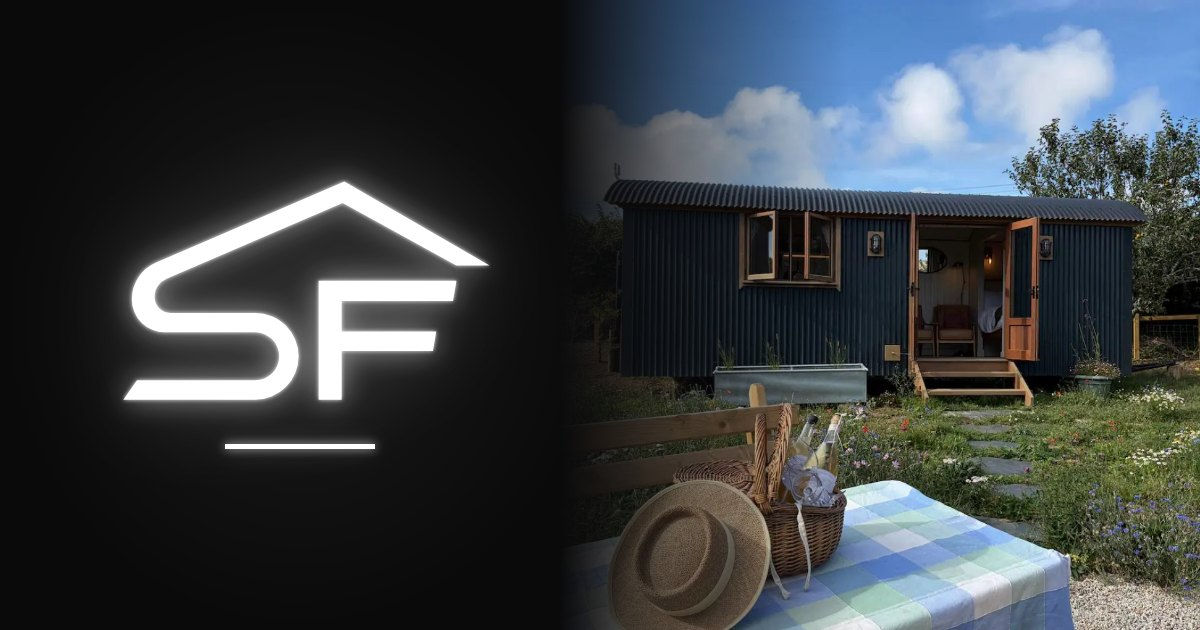
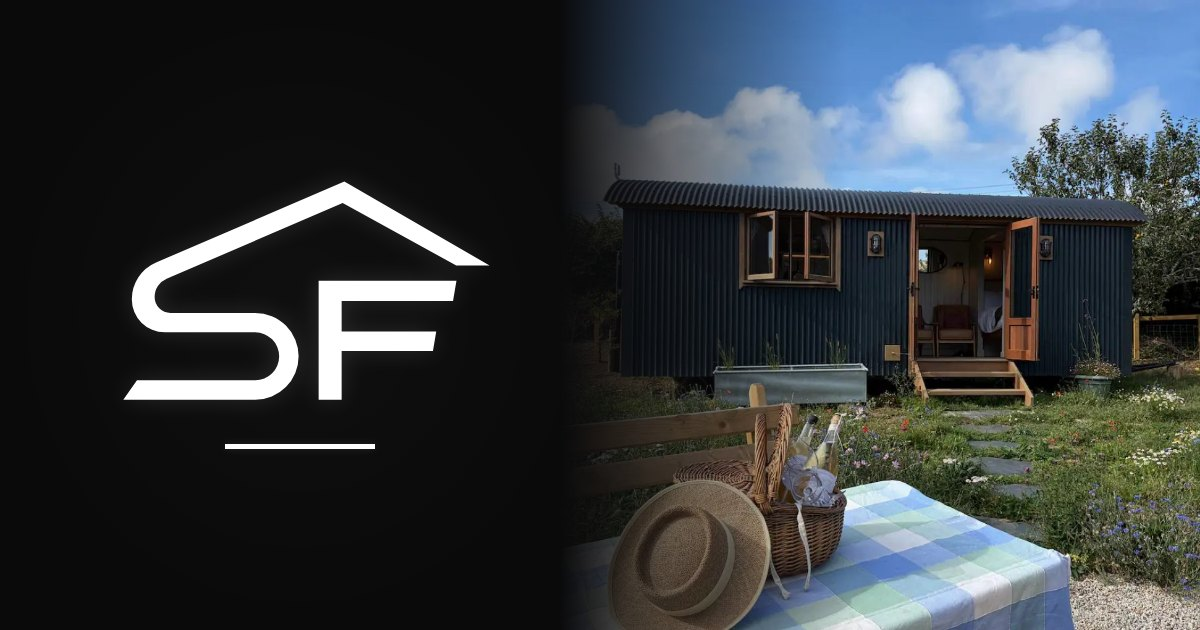
Tone down glow, 7 years, hut write-up, quote or hourly
- Glow reduced to a faint hint across the site, icon and share image
- 7 years of experience
- Shepherd's hut: designed, built and situated from scratch; shower
  room photo moved to during
- How it works: quote or hourly, with a transparent invoice breakdown

Claude-Session: https://claude.ai/code/session_01G5jVwbTrBoWR311kJorTU6

Changed region(s): [[0.0925, 0.2413, 0.4317, 0.7238]]

diff --git a/index.html b/index.html
@@ -4,7 +4,7 @@
 <meta charset="utf-8">
 <meta name="viewport" content="width=device-width, initial-scale=1">
 <title>SF Building &amp; Carpentry · Renovations &amp; extensions · Truro &amp; the Roseland</title>
-<meta name="description" content="SF Building &amp; Carpentry. Stuart Freeth, general builder with 6 years of experience in renovations and extensions. Based in Truro with a yard on the Roseland, Cornwall.">
+<meta name="description" content="SF Building &amp; Carpentry. Stuart Freeth, general builder with 7 years of experience in renovations and extensions. Based in Truro with a yard on the Roseland, Cornwall.">
 <meta name="theme-color" content="#0A0A0B">
 <link rel="icon" href="logo.svg" type="image/svg+xml">
 <link rel="apple-touch-icon" href="apple-touch-icon.png">
@@ -31,7 +31,7 @@
     --text: #F3F3F1;
     --muted: #A6A9B0;
     --dim: #868991;
-    --glow-text: 0 0 10px rgba(255, 255, 255, .55), 0 0 28px rgba(255, 255, 255, .22);
+    --glow-text: 0 0 8px rgba(255, 255, 255, .12);
     color-scheme: dark;
   }
   * { box-sizing: border-box; }
@@ -48,12 +48,12 @@
 
   /* Logo */
   .mark { display: block; height: auto; color: #fff; overflow: visible; }
-  .glow { filter: drop-shadow(0 0 2px rgba(255, 255, 255, .9)) drop-shadow(0 0 14px rgba(255, 255, 255, .5)) drop-shadow(0 0 44px rgba(255, 255, 255, .25)); }
-  .glow-sm { filter: drop-shadow(0 0 1.5px rgba(255, 255, 255, .85)) drop-shadow(0 0 8px rgba(255, 255, 255, .4)); }
+  .glow { filter: drop-shadow(0 0 12px rgba(255, 255, 255, .12)); }
+  .glow-sm { filter: drop-shadow(0 0 5px rgba(255, 255, 255, .1)); }
   .lockup { display: inline-flex; flex-direction: column; align-items: center; }
   .lockup .mark { width: 230px; }
   .lockup-word { margin-top: 22px; padding-left: .42em; color: #fff; font-size: 15px; font-weight: 600; letter-spacing: .42em; text-transform: uppercase; white-space: nowrap; text-shadow: var(--glow-text); }
-  .lockup-rule { width: 38%; height: 3px; margin-top: 16px; background: #fff; box-shadow: 0 0 8px rgba(255, 255, 255, .7), 0 0 22px rgba(255, 255, 255, .3); }
+  .lockup-rule { width: 38%; height: 3px; margin-top: 16px; background: #fff; box-shadow: 0 0 8px rgba(255, 255, 255, .12); }
   .ico { width: 20px; height: 20px; flex: none; }
 
   /* Header */
@@ -66,21 +66,21 @@
   .brand-text span { display: block; font-size: 10px; font-weight: 500; letter-spacing: .32em; color: var(--muted); }
   .nav { display: flex; align-items: center; gap: 30px; }
   .nav .link { font-size: 12px; font-weight: 600; letter-spacing: .22em; text-transform: uppercase; text-decoration: none; color: var(--muted); transition: color .2s, text-shadow .2s; }
-  .nav .link:hover { color: #fff; text-shadow: 0 0 10px rgba(255, 255, 255, .6); }
+  .nav .link:hover { color: #fff; }
 
   /* Buttons */
   .btn { display: inline-flex; align-items: center; justify-content: center; gap: 10px; min-height: 50px; padding: 0 26px; border: 1px solid transparent; border-radius: 2px; font: inherit; font-size: 12px; font-weight: 600; letter-spacing: .2em; text-transform: uppercase; text-decoration: none; cursor: pointer; transition: box-shadow .25s, border-color .25s, background .25s, color .25s; }
   .btn .ico { width: 18px; height: 18px; }
   .btn-solid { background: #fff; color: #0A0A0B; }
-  .btn-solid:hover { box-shadow: 0 0 24px rgba(255, 255, 255, .45); }
+  .btn-solid:hover { background: #E4E4E1; }
   .btn-line { border-color: rgba(255, 255, 255, .5); color: #fff; }
-  .btn-line:hover { border-color: #fff; box-shadow: 0 0 20px rgba(255, 255, 255, .22), inset 0 0 14px rgba(255, 255, 255, .07); }
+  .btn-line:hover { border-color: #fff; background: rgba(255, 255, 255, .06); }
   .btn-sm { min-height: 44px; padding: 0 18px; }
 
   /* Hero */
   .hero { display: grid; grid-template-columns: minmax(0, 1fr) minmax(0, 1fr); min-height: min(88vh, 800px); border-bottom: 1px solid var(--line); }
   .hero-content { position: relative; z-index: 1; display: flex; flex-direction: column; align-items: center; justify-content: center; padding: 72px 40px 64px; text-align: center; }
-  .hero-content::before { content: ""; position: absolute; left: 50%; top: 32%; z-index: -1; width: 560px; height: 560px; max-width: 100%; transform: translate(-50%, -50%); background: radial-gradient(closest-side, rgba(255, 255, 255, .07), rgba(255, 255, 255, 0)); pointer-events: none; }
+  .hero-content::before { content: ""; position: absolute; left: 50%; top: 32%; z-index: -1; width: 560px; height: 560px; max-width: 100%; transform: translate(-50%, -50%); background: radial-gradient(closest-side, rgba(255, 255, 255, .025), rgba(255, 255, 255, 0)); pointer-events: none; }
   .hero .lockup { margin-bottom: 44px; }
   .hero h1 { max-width: 17ch; margin: 0 0 18px; font-size: clamp(28px, 3.1vw, 42px); font-weight: 600; line-height: 1.14; letter-spacing: .04em; text-transform: uppercase; }
   .intro { max-width: 44ch; margin: 0 0 32px; color: var(--muted); font-size: 17px; }
@@ -130,7 +130,7 @@
   .tag { position: absolute; top: 10px; left: 10px; padding: 5px 9px 4px; font-size: 10px; font-weight: 600; line-height: 1.2; letter-spacing: .22em; text-transform: uppercase; pointer-events: none; }
   .tag-before { background: rgba(10, 10, 11, .82); color: #fff; outline: 1px solid rgba(255, 255, 255, .35); }
   .tag-during { background: rgba(58, 60, 66, .92); color: #fff; }
-  .tag-after { background: #fff; color: #0A0A0B; box-shadow: 0 0 14px rgba(255, 255, 255, .5); }
+  .tag-after { background: #fff; color: #0A0A0B; }
   .subhead { margin: 72px 0 28px; }
   .subhead h3 { margin: 0; font-size: 22px; font-weight: 600; letter-spacing: .06em; text-transform: uppercase; }
   .gallery .shot figcaption { padding: 12px 14px; border-top: 1px solid var(--line); background: var(--card); font-size: 13px; font-weight: 500; letter-spacing: .03em; }
@@ -138,7 +138,7 @@
   /* Services */
   .services-grid { display: grid; grid-template-columns: repeat(3, minmax(0, 1fr)); border-top: 1px solid var(--line); border-left: 1px solid var(--line); }
   .service { padding: 30px 28px 34px; border-right: 1px solid var(--line); border-bottom: 1px solid var(--line); transition: background .3s, box-shadow .3s; }
-  .service:hover { background: var(--card); box-shadow: inset 0 0 0 1px rgba(255, 255, 255, .28), 0 0 30px rgba(255, 255, 255, .06); }
+  .service:hover { background: var(--card); box-shadow: inset 0 0 0 1px rgba(255, 255, 255, .22); }
   .service .num { font-size: 12px; font-weight: 600; letter-spacing: .3em; color: var(--dim); }
   .service h3 { margin: 18px 0 8px; font-size: 15px; font-weight: 600; letter-spacing: .14em; text-transform: uppercase; }
   .service p { margin: 0; color: var(--muted); font-size: 15px; }
@@ -158,7 +158,7 @@
   /* How it works */
   .steps { display: grid; grid-template-columns: repeat(4, minmax(0, 1fr)); gap: 0 32px; margin: 0; padding: 0; list-style: none; }
   .steps li { padding: 28px 0 32px; border-top: 1px solid var(--line-2); }
-  .step-num { font-size: 44px; font-weight: 600; line-height: 1; color: transparent; -webkit-text-stroke: 1px rgba(255, 255, 255, .7); text-shadow: 0 0 18px rgba(255, 255, 255, .15); }
+  .step-num { font-size: 44px; font-weight: 600; line-height: 1; color: transparent; -webkit-text-stroke: 1px rgba(255, 255, 255, .7); }
   .steps h3 { margin: 18px 0 8px; font-size: 15px; font-weight: 600; letter-spacing: .16em; text-transform: uppercase; }
   .steps p { margin: 0; color: var(--muted); font-size: 15px; }
 
@@ -166,12 +166,11 @@
   .contact { text-align: center; }
   .contact .label { justify-content: center; }
   .contact .label::before { content: ""; width: 56px; height: 1px; background: var(--line-2); }
-  .contact h2 { text-shadow: 0 0 22px rgba(255, 255, 255, .22); }
   .contact .lead { margin: 0 auto 44px; }
   .tiles { display: grid; grid-template-columns: repeat(2, minmax(0, 1fr)); gap: 16px; max-width: 900px; margin: 0 auto; }
   .tile { display: flex; flex-direction: column; align-items: center; gap: 12px; padding: 38px 20px 34px; border: 1px solid var(--line-2); background: var(--bg-2); text-decoration: none; transition: border-color .25s, box-shadow .25s; }
-  .tile:hover { border-color: #fff; box-shadow: 0 0 28px rgba(255, 255, 255, .18), inset 0 0 22px rgba(255, 255, 255, .05); }
-  .tile .ico { width: 28px; height: 28px; filter: drop-shadow(0 0 6px rgba(255, 255, 255, .5)); }
+  .tile:hover { border-color: #fff; background: var(--card); }
+  .tile .ico { width: 28px; height: 28px; }
   .tile .k { font-size: 11px; font-weight: 600; letter-spacing: .3em; text-transform: uppercase; color: var(--dim); }
   .tile .v { font-size: clamp(17px, 2.2vw, 24px); font-weight: 600; letter-spacing: .03em; overflow-wrap: anywhere; }
   .where { margin: 32px 0 0; color: var(--muted); font-size: 14px; letter-spacing: .04em; }
@@ -195,7 +194,7 @@
   .v-meta { display: flex; flex-wrap: wrap; justify-content: center; gap: 6px 18px; margin-top: 14px; font-size: 12px; font-weight: 600; letter-spacing: .2em; text-align: center; text-transform: uppercase; color: var(--muted); }
   #v-count { white-space: nowrap; color: var(--dim); }
   .vbtn { position: fixed; display: grid; place-items: center; width: 52px; height: 52px; padding: 0; border: 1px solid rgba(255, 255, 255, .45); border-radius: 50%; background: rgba(10, 10, 11, .7); color: #fff; cursor: pointer; transition: border-color .2s, box-shadow .2s; }
-  .vbtn:hover { border-color: #fff; box-shadow: 0 0 18px rgba(255, 255, 255, .3); }
+  .vbtn:hover { border-color: #fff; }
   .vbtn[hidden] { display: none; }
   .vbtn .ico { width: 22px; height: 22px; }
   .v-close { top: 16px; right: 16px; }
@@ -301,7 +300,7 @@
         <span class="lockup-rule" aria-hidden="true"></span>
       </div>
       <h1 id="hero-title">Renovations &amp; extensions across Cornwall</h1>
-      <p class="intro">I'm Stuart Freeth, a general builder with 6 years of experience in renovations and extensions. Based in Truro, with a yard on the Roseland.</p>
+      <p class="intro">I'm Stuart Freeth, a general builder with 7 years of experience in renovations and extensions. Based in Truro, with a yard on the Roseland.</p>
       <div class="actions">
         <a class="btn btn-solid" href="tel:+447484258141">
           <svg class="ico" fill="none" stroke="currentColor" stroke-width="1.8" stroke-linecap="round" stroke-linejoin="round" aria-hidden="true"><use href="#i-phone"/></svg>
@@ -310,7 +309,7 @@
         <a class="btn btn-line" href="#work">See the work</a>
       </div>
       <dl class="stats">
-        <div><dt>Experience</dt><dd>6 years</dd></div>
+        <div><dt>Experience</dt><dd>7 years</dd></div>
         <div><dt>Based in</dt><dd>Truro</dd></div>
         <div><dt>Yard</dt><dd>The Roseland</dd></div>
       </dl>
@@ -374,7 +373,7 @@
         <p class="label">03 / About</p>
         <h2 id="about-title">A builder you deal with directly</h2>
         <p class="big">I'm Stuart Freeth, a general builder based in Truro with a yard on the Roseland.</p>
-        <p>I've spent the last 6 years on residential building work across Cornwall, mostly renovations and extensions, along with carpentry, concreting and groundworks.</p>
+        <p>I've spent the last 7 years on residential building work across Cornwall, mostly renovations and extensions, along with carpentry, concreting and groundworks.</p>
         <p>When you get in touch, you deal with me directly, from the first site visit to the finished job.</p>
         <div class="signoff">
           <svg class="mark glow-sm" viewBox="322 162 925 553" fill="currentColor" aria-hidden="true"><use href="#sf"/></svg>
@@ -397,7 +396,7 @@
       <ol class="steps" data-reveal>
         <li><span class="step-num" aria-hidden="true">01</span><h3>Get in touch</h3><p>Call or email with a rough idea of the job and where it is.</p></li>
         <li><span class="step-num" aria-hidden="true">02</span><h3>Site visit</h3><p>I'll come and look at the job, talk it through with you and take measurements.</p></li>
-        <li><span class="step-num" aria-hidden="true">03</span><h3>Quote</h3><p>You get a clear written quote, so you know where you stand before work starts.</p></li>
+        <li><span class="step-num" aria-hidden="true">03</span><h3>Quote or hourly</h3><p>A clear written quote, or an hourly rate with a fully transparent breakdown on every invoice.</p></li>
         <li><span class="step-num" aria-hidden="true">04</span><h3>The build</h3><p>I get the job done properly and keep you updated along the way.</p></li>
       </ol>
     </div>
